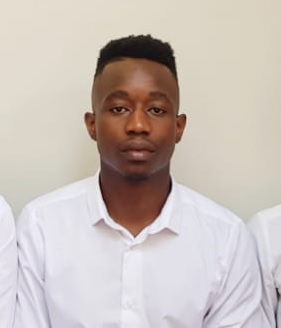
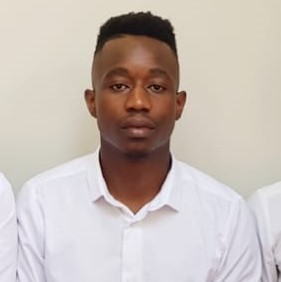
View My profile now shows image
Need to show details

diff --git a/pages/profile/my-profile.php b/pages/profile/my-profile.php
@@ -51,8 +51,8 @@
             <div class="row justify-content-center">
               <div class="col ">
                 <div class="card-profile-image">
-                  <a href="#">
-                    <img src="../../images/user.png" class="rounded-circle">
+                  <a>
+                    <img alt="Image placeholder" class="rounded-circle" src="../employee/images/ProfilePic/<?php echo $_SESSION["employeeID"]?>.jpg" onerror="this.onerror=null;this.src='../../images/user.png';this.style.border = '2px';" style="width: 180px; height: 180px; border: 5px solid white;">
                   </a>
                 </div>
               </div>
